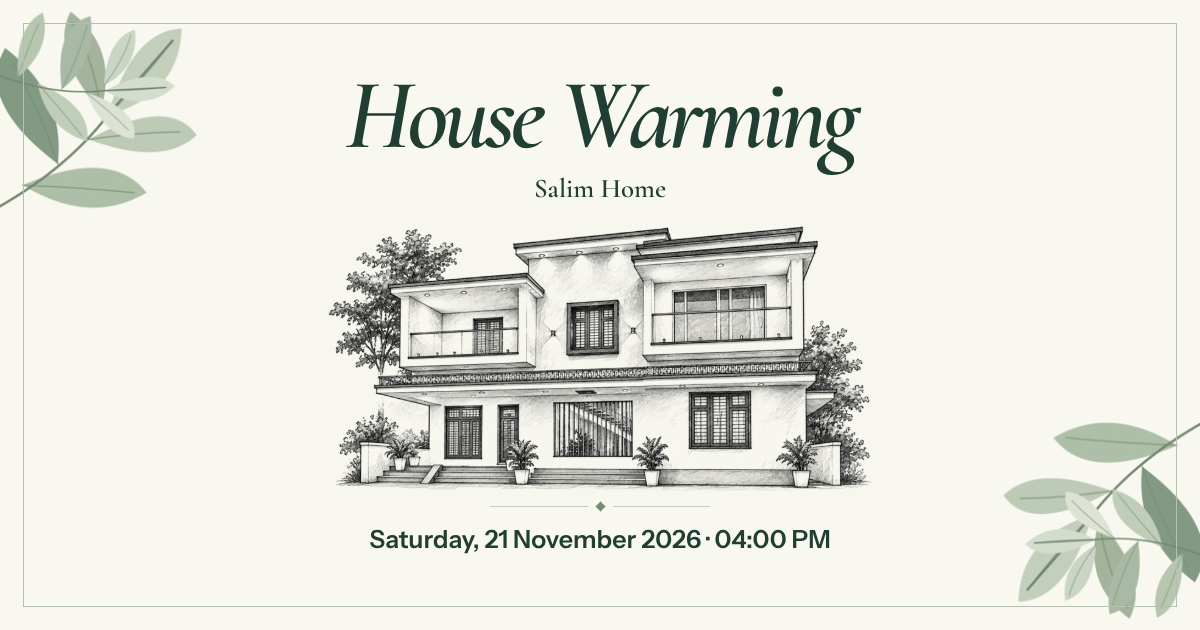
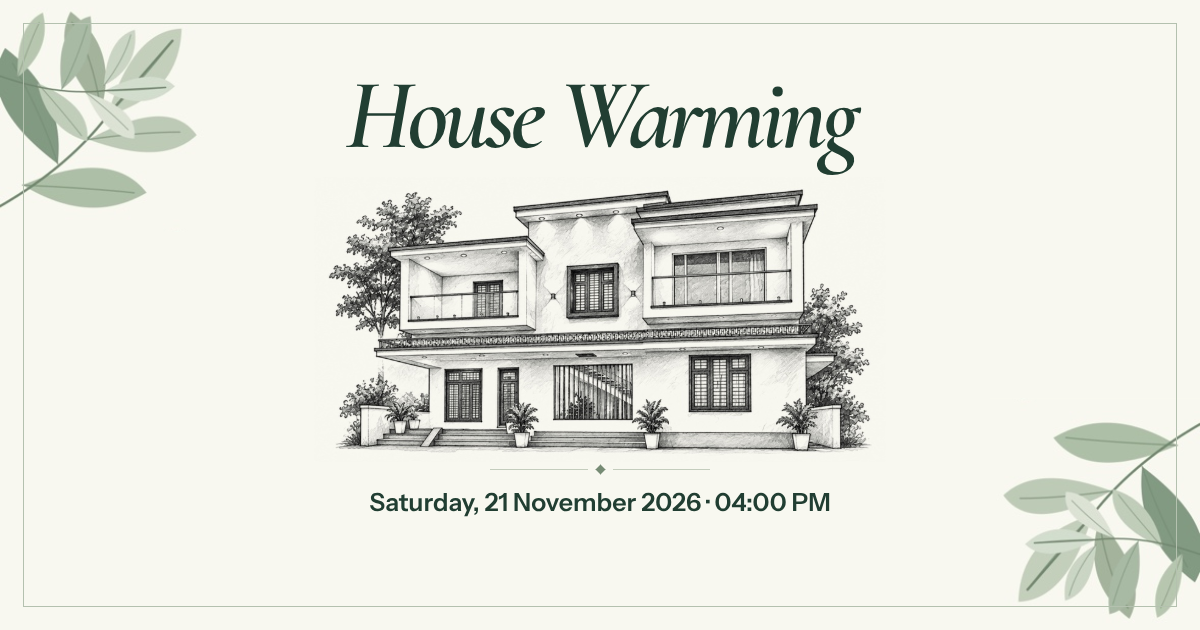
Simplify the housewarming invitation

Changed region(s): [[0.2775, 0.2714, 0.74, 0.8143], [0.3083, 0.8444, 0.7092, 0.8746]]

diff --git a/app/globals.css b/app/globals.css
@@ -6,8 +6,8 @@
   --body: #344a3d;
   --sage: #768b74;
   --line: #c4cdbd;
-  --serif: 'Cormorant Garamond', Georgia, serif;
-  --sans: 'Instrument Sans', system-ui, sans-serif;
+  --serif: Georgia, 'Times New Roman', serif;
+  --sans: system-ui, -apple-system, BlinkMacSystemFont, 'Segoe UI', sans-serif;
 }
 * { box-sizing: border-box; }
 html { scroll-behavior: smooth; }
@@ -17,22 +17,21 @@ a { color: inherit; }
 [hidden] { display: none !important; }
 :focus-visible { outline: 2px solid #395b46; outline-offset: 5px; }
 svg { width: 22px; height: 22px; flex: none; }
-.navigation { max-width: 1040px; margin: auto; padding: 10px clamp(18px, 5vw, 40px); display: flex; justify-content: space-between; align-items: center; gap: 8px; }
+.navigation { max-width: 1040px; margin: auto; padding: 8px clamp(17px, 4vw, 38px); display: flex; justify-content: flex-end; align-items: center; }
 .navigation a { display: inline-flex; gap: 8px; align-items: center; min-height: 44px; text-decoration: none; }
-.brand { font-family: var(--serif); font-weight: 600; font-size: 23px; line-height: 1; }
-.brand svg { width: 19px; }
 .nav-location { padding: 0 13px; border: 1px solid var(--line); border-radius: 30px; font-size: 14px; }
 .nav-location svg { width: 17px; }
 .nav-location:hover { background: #e8eee1; }
-.hero { max-width: 960px; margin: 0 auto; width: calc(100% - clamp(22px, 6vw, 60px)); position: relative; isolation: isolate; overflow: hidden; text-align: center; border: 1px solid var(--line); border-radius: 8px 8px 80px 80px / 8px 8px 26px 26px; padding: clamp(36px, 6vw, 54px) clamp(14px, 4vw, 40px) 16px; }
+.hero { max-width: 960px; margin: 0 auto; width: calc(100% - clamp(22px, 6vw, 60px)); position: relative; isolation: isolate; overflow: hidden; text-align: center; border: 1px solid var(--line); border-radius: 8px 8px 80px 80px / 8px 8px 26px 26px; padding: clamp(30px, 6vw, 54px) clamp(18px, 5vw, 40px) 14px; }
 .hero::before { content: ''; position: absolute; inset: 6px; border: 1px solid #e0e4d8; border-radius: inherit; pointer-events: none; z-index: -1; }
 .bismillah { position: relative; font: 400 clamp(21px, 4vw, 32px)/1.65 'Noto Naskh Arabic', serif; }
-h1 { font: italic 600 clamp(48px, 10vw, 109px)/.92 var(--serif); letter-spacing: -.052em; text-wrap: balance; }
-.hero h1 { margin: .14em 0 .23em; }
+h1 { font: 400 clamp(36px, 9.6vw, 76px)/1.05 var(--serif); letter-spacing: -.04em; text-wrap: balance; overflow-wrap: anywhere; }
+.hero h1 { margin: 12px 0 0; }
 .intro { color: var(--body); font: 500 clamp(20px, 4vw, 29px)/1.18 var(--serif); }
 .house-name { margin: 8px 0; font: 600 26px/1.2 var(--serif); overflow-wrap: anywhere; }
-.hero-date { margin-top: 16px; color: var(--ink); font: 600 14px/1.4 var(--sans); }
-.hero-figure { width: min(100%, 680px); margin: 10px auto 0; }
+.hero-date { display: flex; flex-wrap: wrap; justify-content: center; gap: 5px 16px; margin: 16px auto 0; color: var(--ink); font: 600 14px/1.5 var(--sans); font-variant-numeric: tabular-nums; }
+.hero-date span:last-child { white-space: nowrap; }
+.hero-figure { width: min(100%, 680px); margin: 18px auto 0; }
 .house-art { position: relative; aspect-ratio: 1083 / 469; overflow: hidden; }
 .house-art img { display: block; position: absolute; top: 0; left: 0; width: 100%; height: auto; transform: translateY(-28%); }
 .leaves { width: clamp(88px, 18vw, 172px); aspect-ratio: 206 / 228; position: absolute; pointer-events: none; overflow: hidden; }
@@ -43,15 +42,15 @@ h1 { font: italic 600 clamp(48px, 10vw, 109px)/.92 var(--serif); letter-spacing:
 .ornament span { width: 7px; height: 7px; background: var(--sage); transform: rotate(45deg); flex: none; }
 .jump { display: inline-flex; align-items: center; justify-content: center; gap: 5px; min-height: 44px; font-size: 14px; text-decoration-thickness: 1px; text-underline-offset: 4px; }
 .jump svg { width: 15px; }
-.details { text-align: center; max-width: 740px; margin: 0 auto; padding: 54px 20px 32px; }
-h2 { font: 600 clamp(36px, 7vw, 54px)/.98 var(--serif); letter-spacing: -.025em; }
-.message { margin: 12px auto 26px; max-width: 510px; color: var(--body); font: 500 clamp(22px, 3.8vw, 28px)/1.2 var(--serif); text-wrap: pretty; }
+.details { text-align: center; max-width: 740px; margin: 0 auto; padding: clamp(34px, 7vw, 54px) 20px 32px; scroll-margin-top: 16px; }
+h2 { font: 400 clamp(28px, 6vw, 45px)/1.12 var(--serif); letter-spacing: -.025em; }
+.message { margin: 12px auto 26px; max-width: 510px; color: var(--body); font: 400 clamp(16px, 2.7vw, 20px)/1.65 var(--sans); text-wrap: pretty; }
 .facts { background: var(--ivory); border: 1px solid var(--line); border-radius: 12px; text-align: left; max-width: 580px; margin: auto; display: grid; grid-template-columns: 1.25fr 1fr; }
 .fact { padding: 18px clamp(9px, 3vw, 24px); display: flex; align-items: center; gap: clamp(5px, 2.4vw, 14px); }
 .fact + .fact { border-left: 1px solid var(--line); }
 .fact svg { color: #5c765e; width: clamp(17px, 4vw, 22px); }
 .eyebrow { display: block; color: #4b634e; font-size: 11px; font-weight: 600; letter-spacing: .12em; text-transform: uppercase; }
-.fact time { display: block; margin-top: 3px; font: 600 clamp(17px, 3.3vw, 25px)/1.05 var(--serif); }
+.fact time { display: block; margin-top: 3px; font: 600 clamp(13px, 2.7vw, 17px)/1.4 var(--sans); }
 .countdown { margin-top: 18px; }
 .countdown .countdown-value { display: block; margin: 2px 0 0; font-variant-numeric: tabular-nums; font-size: 14px; }
 .location-section { margin: 0 auto; padding: 0 20px; max-width: 760px; scroll-margin-top: 20px; }
@@ -73,7 +72,7 @@ h2 { font: 600 clamp(36px, 7vw, 54px)/.98 var(--serif); letter-spacing: -.025em;
 .button-outline { background: transparent; color: var(--ink); border-color: #8da18b; }
 .button-outline:hover { background: #e9eee2; }
 .closing { text-align: center; padding: 36px 20px 50px; }
-.closing > p { font: italic 600 clamp(28px, 5vw, 43px)/1.05 var(--serif); margin-top: 14px; }
+.closing > p { font: italic 400 clamp(23px, 4vw, 36px)/1.19 var(--serif); margin-top: 14px; }
 .closing .family, .family { font: 600 23px/1.15 var(--serif); margin-top: 8px; }
 .share { display: flex; flex-wrap: wrap; justify-content: center; gap: 8px; margin-top: 16px; }
 .share-status { flex-basis: 100%; font-size: 14px; }
@@ -88,6 +87,7 @@ h2 { font: 600 clamp(36px, 7vw, 54px)/.98 var(--serif); letter-spacing: -.025em;
 }
 @media (prefers-reduced-motion: reduce) { html { scroll-behavior: auto; } .button { transition: none; } }
 @media (max-width: 385px) {
-  .brand { font-size: 20px; white-space: nowrap; }
   .hero-leaves { width: 64px; }
+  .hero-date { flex-direction: column; gap: 3px; }
+  .fact { padding-block: 14px; }
 }

diff --git a/components/invitation.js b/components/invitation.js
@@ -63,7 +63,6 @@ function Share({ event }) {
 export function Invitation({ event, date, time }) {
   return h(React.Fragment, null,
     h('header', { className: 'navigation' },
-      h('a', { className: 'brand', href: '#top' }, h(Icon, { name: 'home' }), 'House Warming'),
       h('a', { href: '#location', className: 'nav-location' }, h(Icon, { name: 'pin' }), 'Location')),
     h('main', { id: 'top' },
       h('section', { className: 'hero', 'aria-labelledby': 'invitation-title' },
@@ -71,8 +70,10 @@ export function Invitation({ event, date, time }) {
         h('p', { className: 'bismillah', lang: 'ar', dir: 'rtl' }, event.bismillah),
         h('h1', { id: 'invitation-title' }, event.title),
         event.houseName && h('p', { className: 'house-name' }, event.houseName),
-        h('p', { className: 'intro' }, event.introduction),
-        h('p', { className: 'hero-date' }, h('time', { dateTime: event.startsAt }, date + ' · ' + time)),
+        event.introduction && h('p', { className: 'intro' }, event.introduction),
+        h('time', { className: 'hero-date', dateTime: event.startsAt },
+          h('span', null, date),
+          h('span', null, time)),
         h('figure', { className: 'hero-figure' }, h(House)),
         h(Ornament),
         h('a', { className: 'jump', href: '#details' }, 'Event details', h(Icon, { name: 'down' }))),

diff --git a/app/layout.jsx b/app/layout.jsx
@@ -1,8 +1,3 @@
-import '@fontsource/cormorant-garamond/latin-500.css';
-import '@fontsource/cormorant-garamond/latin-600.css';
-import '@fontsource/cormorant-garamond/latin-600-italic.css';
-import '@fontsource/instrument-sans/latin-400.css';
-import '@fontsource/instrument-sans/latin-600.css';
 import '@fontsource/noto-naskh-arabic/arabic-400.css';
 import './globals.css';
 
